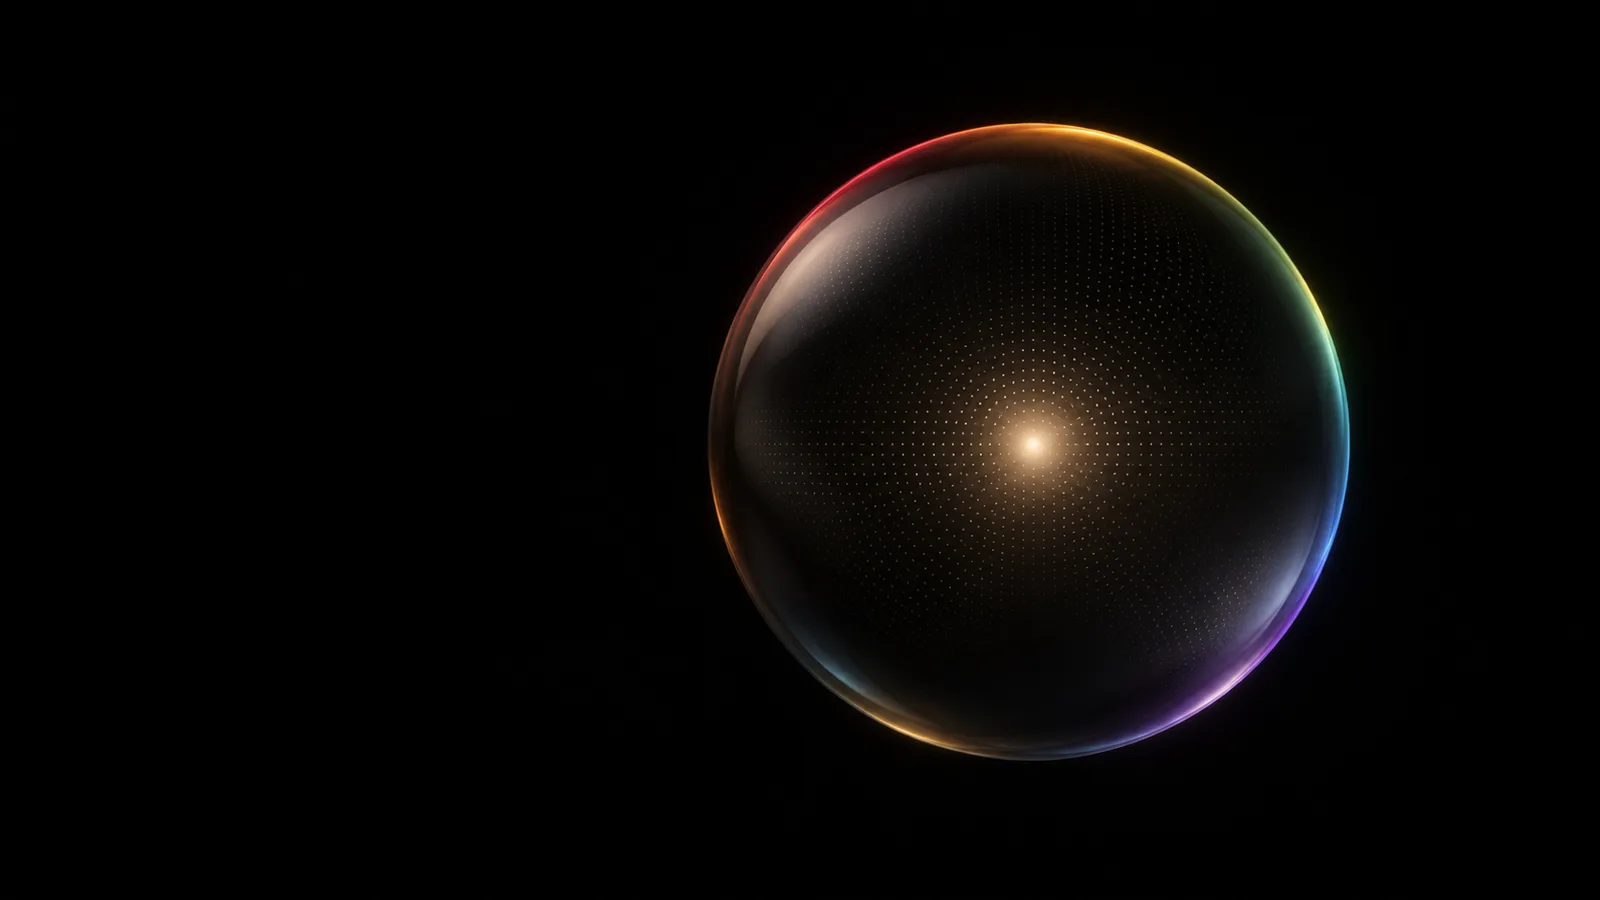
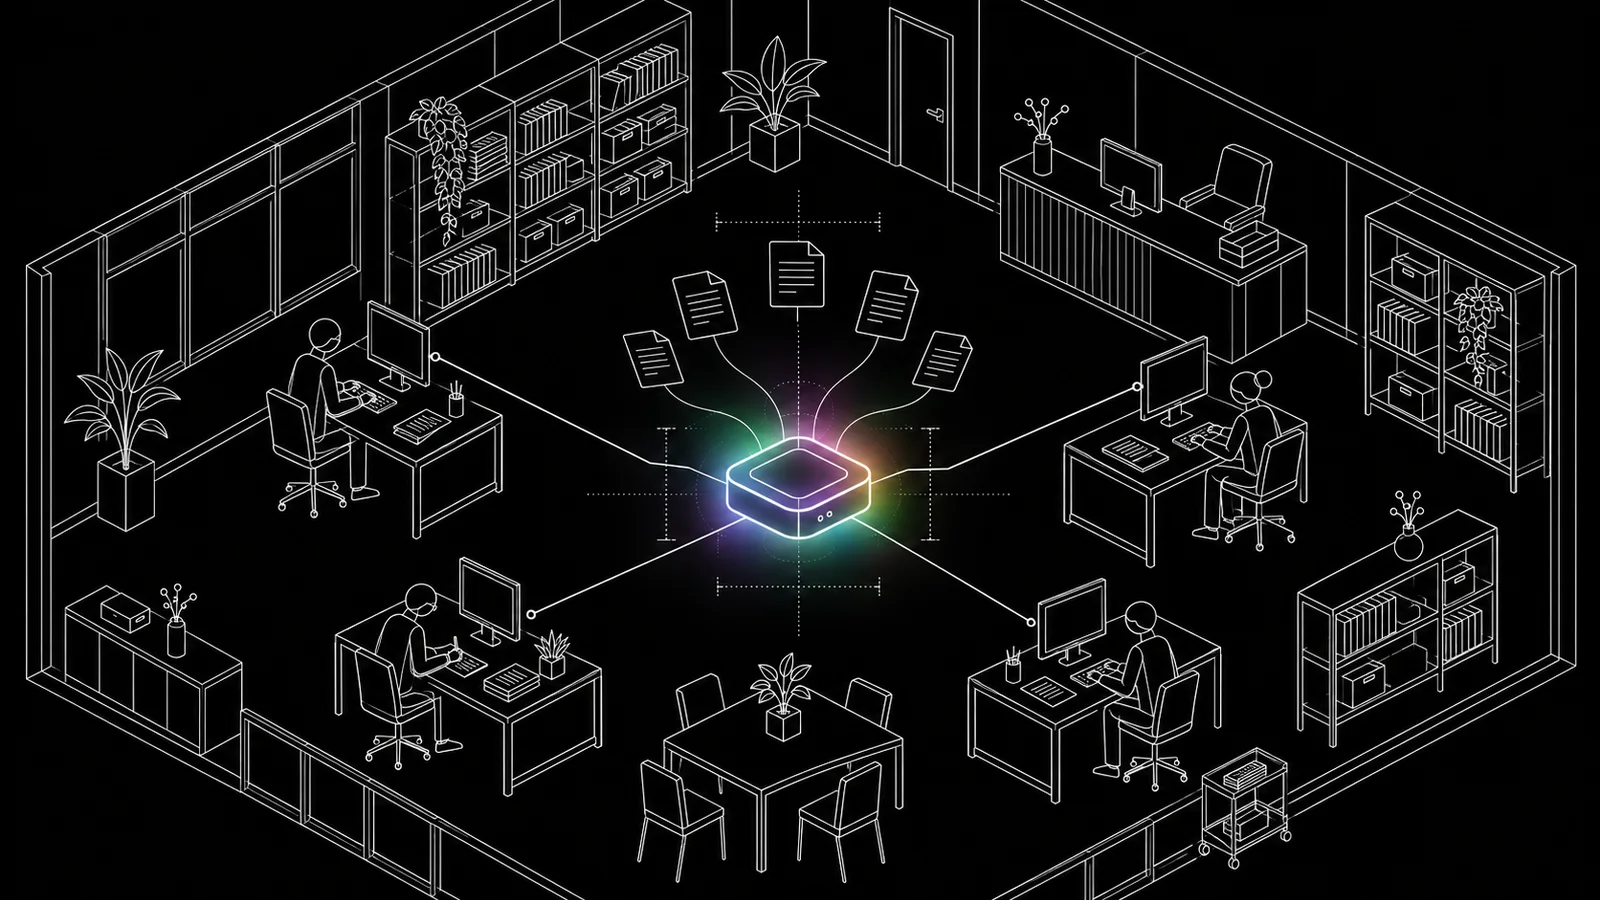
feat(blog): redraw the covers as technical line drawings
The dark glass covers did not work. Each cover is now an isometric line
drawing on black, with one element picked out by a soft prismatic glow.

diff --git a/noir-digital/content/blog/perfil-da-empresa-no-google.md b/noir-digital/content/blog/perfil-da-empresa-no-google.md
@@ -3,7 +3,7 @@ title: Perfil da Empresa no Google: como ser encontrado por quem está perto
 description: Quando alguém busca um serviço na sua cidade, o Google mostra um mapa antes de qualquer site. Entenda o que faz uma empresa aparecer ali e o que você pode ajustar hoje.
 date: 2026-11-12
 image: /blog/perfil-da-empresa-no-google.webp
-imageAlt: Marcador de mapa em vidro escuro sobre uma malha de pontos
+imageAlt: Desenho técnico de um quarteirão com uma loja em destaque e um marcador de mapa
 category: Google
 ---
 

diff --git a/noir-digital/content/blog/site-lento-custa-clientes.md b/noir-digital/content/blog/site-lento-custa-clientes.md
@@ -3,7 +3,7 @@ title: Seu site demora para abrir? Você perde clientes antes de dizer oi
 description: Um site lento não é só um incômodo técnico. Ele faz o visitante desistir antes de conhecer a sua empresa. Veja como identificar o problema e o que resolve de verdade.
 date: 2026-11-16
 image: /blog/site-lento-custa-clientes.webp
-imageAlt: Janela de navegador em vidro escuro com rastros de luz
+imageAlt: Desenho técnico de uma rua de lojas com uma janela de navegador em destaque
 category: Sites
 ---
 

diff --git a/noir-digital/content/blog/ia-na-pequena-empresa.md b/noir-digital/content/blog/ia-na-pequena-empresa.md
@@ -3,7 +3,7 @@ title: Onde a inteligência artificial ajuda de verdade uma pequena empresa
 description: Sem promessa de mágica. Três usos de IA que já funcionam no dia a dia de uma empresa pequena, e os cuidados para não trocar um problema por outro.
 date: 2026-11-09
 image: /blog/ia-na-pequena-empresa.webp
-imageAlt: Esfera de vidro escuro com retícula de pontos e núcleo de luz
+imageAlt: Desenho técnico de um escritório com um ponto central ligado às mesas
 category: IA
 ---
 
